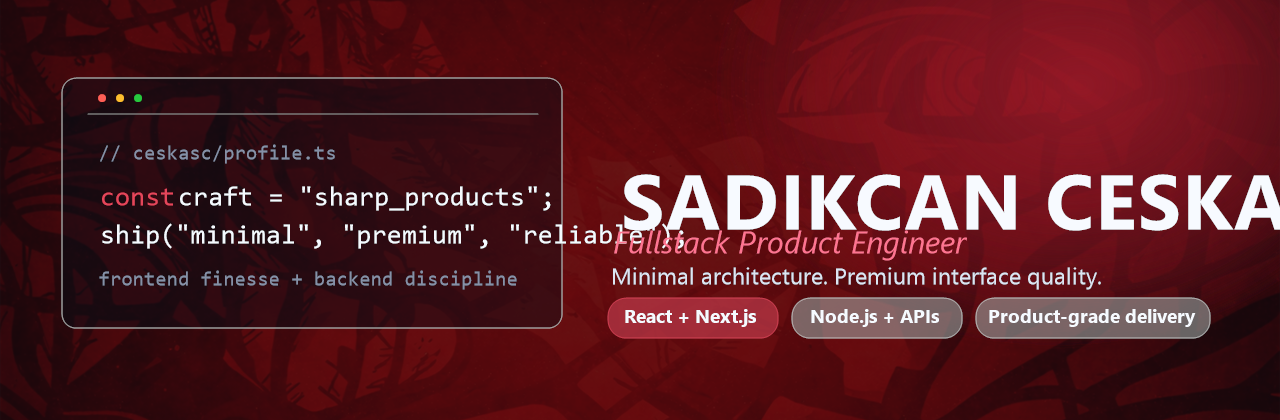
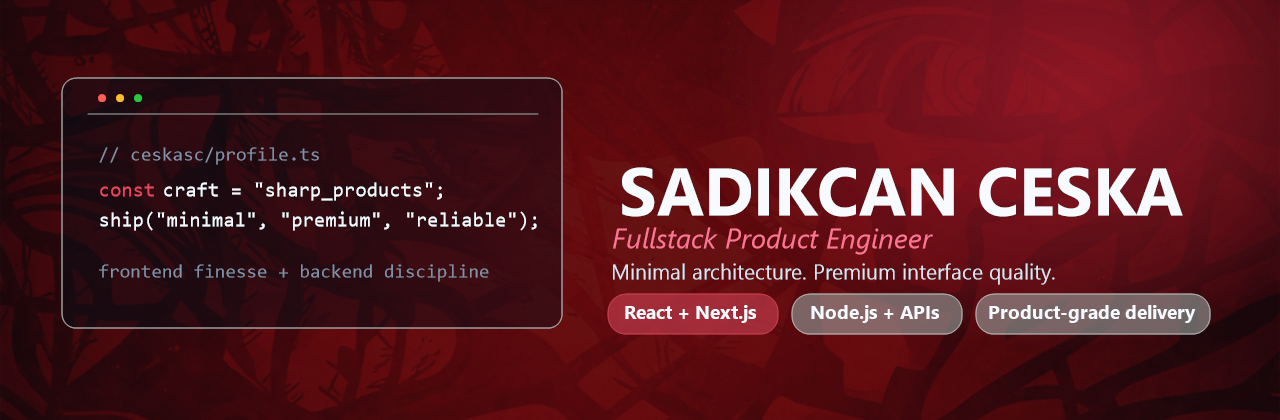
fix: remove hero line and prevent code overflow

Changed region(s): [[0.0625, 0.4024, 1.0, 0.8048], [0.0625, 0.619, 0.4062, 0.681], [0.0938, 0.3405, 0.25, 0.4024]]

diff --git a/README.md b/README.md
@@ -1,5 +1,5 @@
 <div align="center">
-  <img src="./assets/profile-hero-red.png?v=20260220e" alt="Sadikcan Ceska hero header" width="100%" />
+  <img src="./assets/profile-hero-red.png?v=20260220f" alt="Sadikcan Ceska hero header" width="100%" />
 
   <h1>Sadikcan Ceska</h1>
   <p><strong>Fullstack Product Engineer</strong> building product-grade web systems with clean architecture and sharp interface quality.</p>
